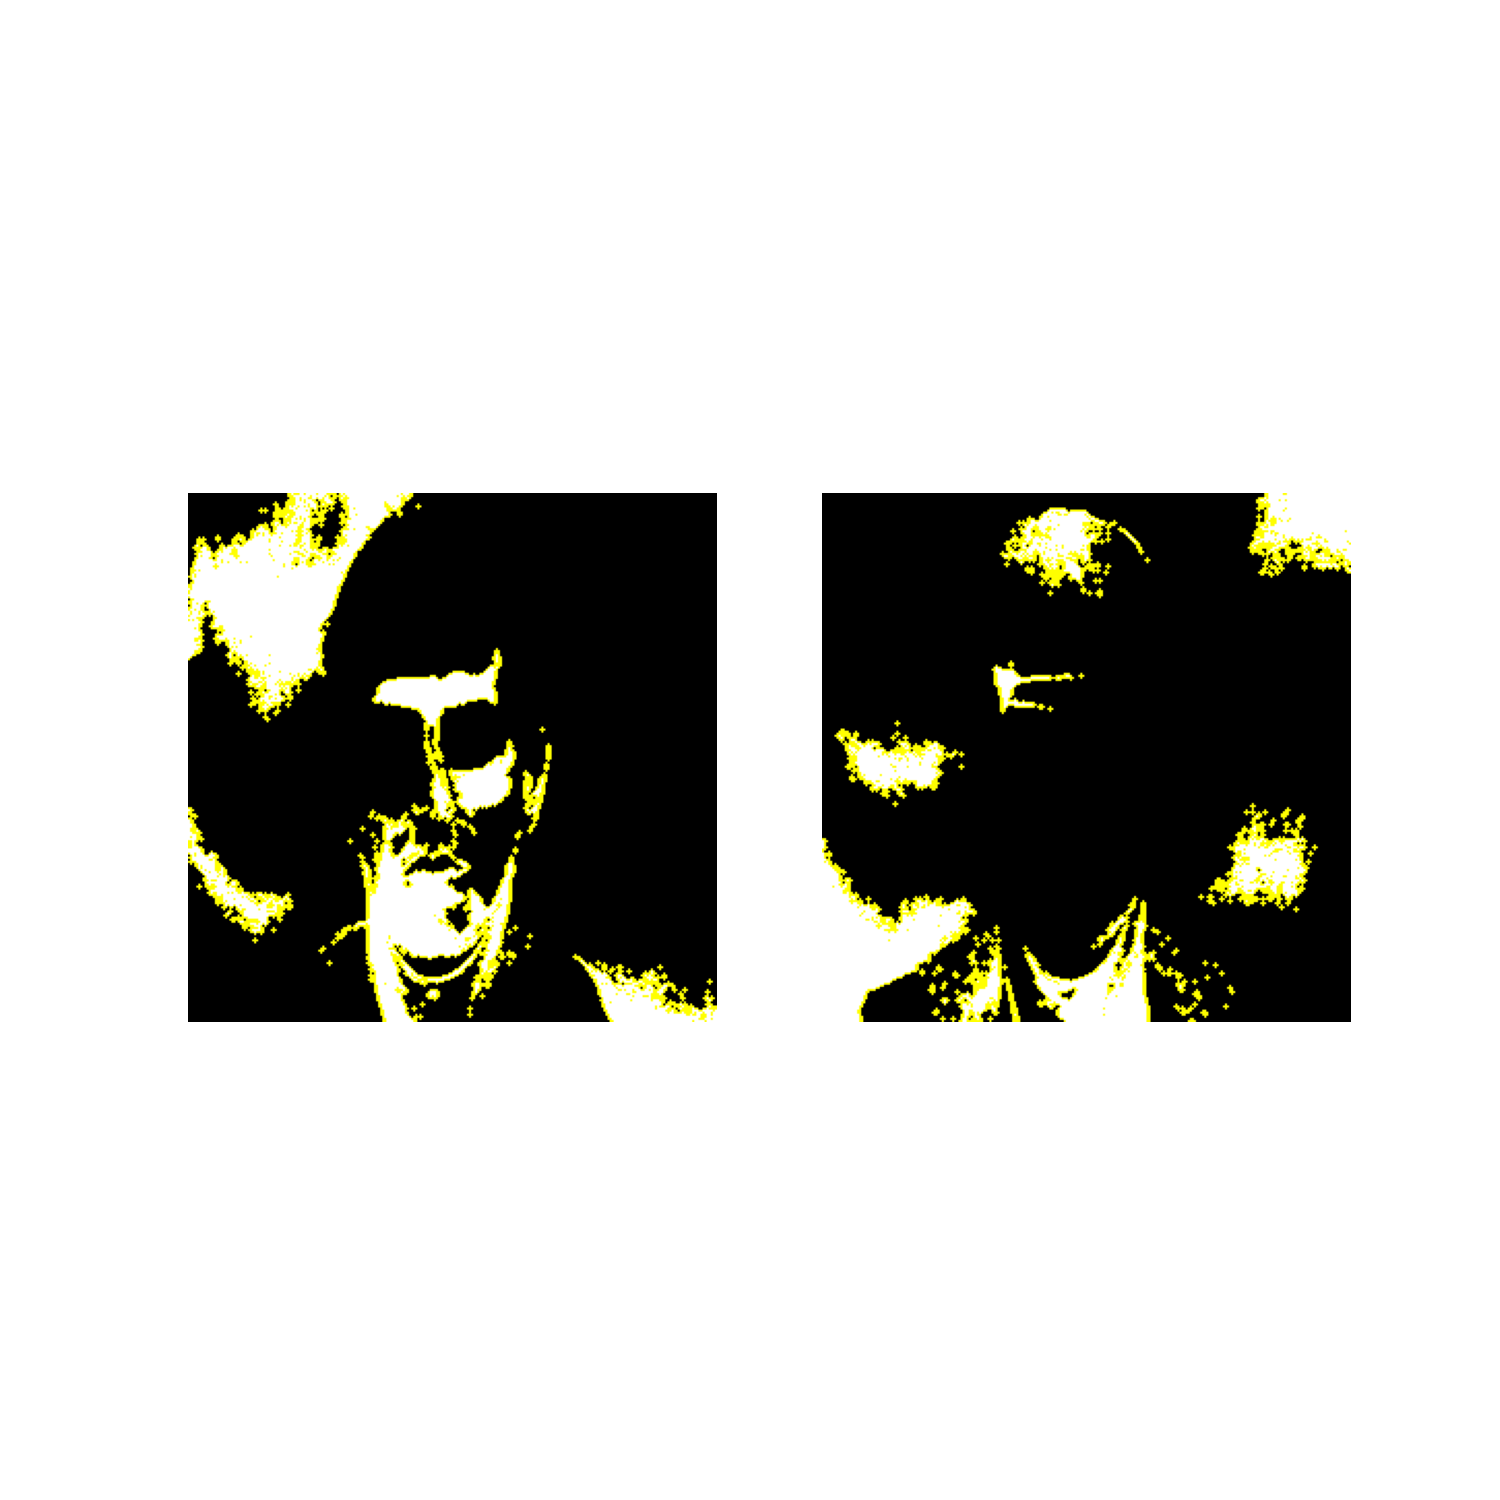
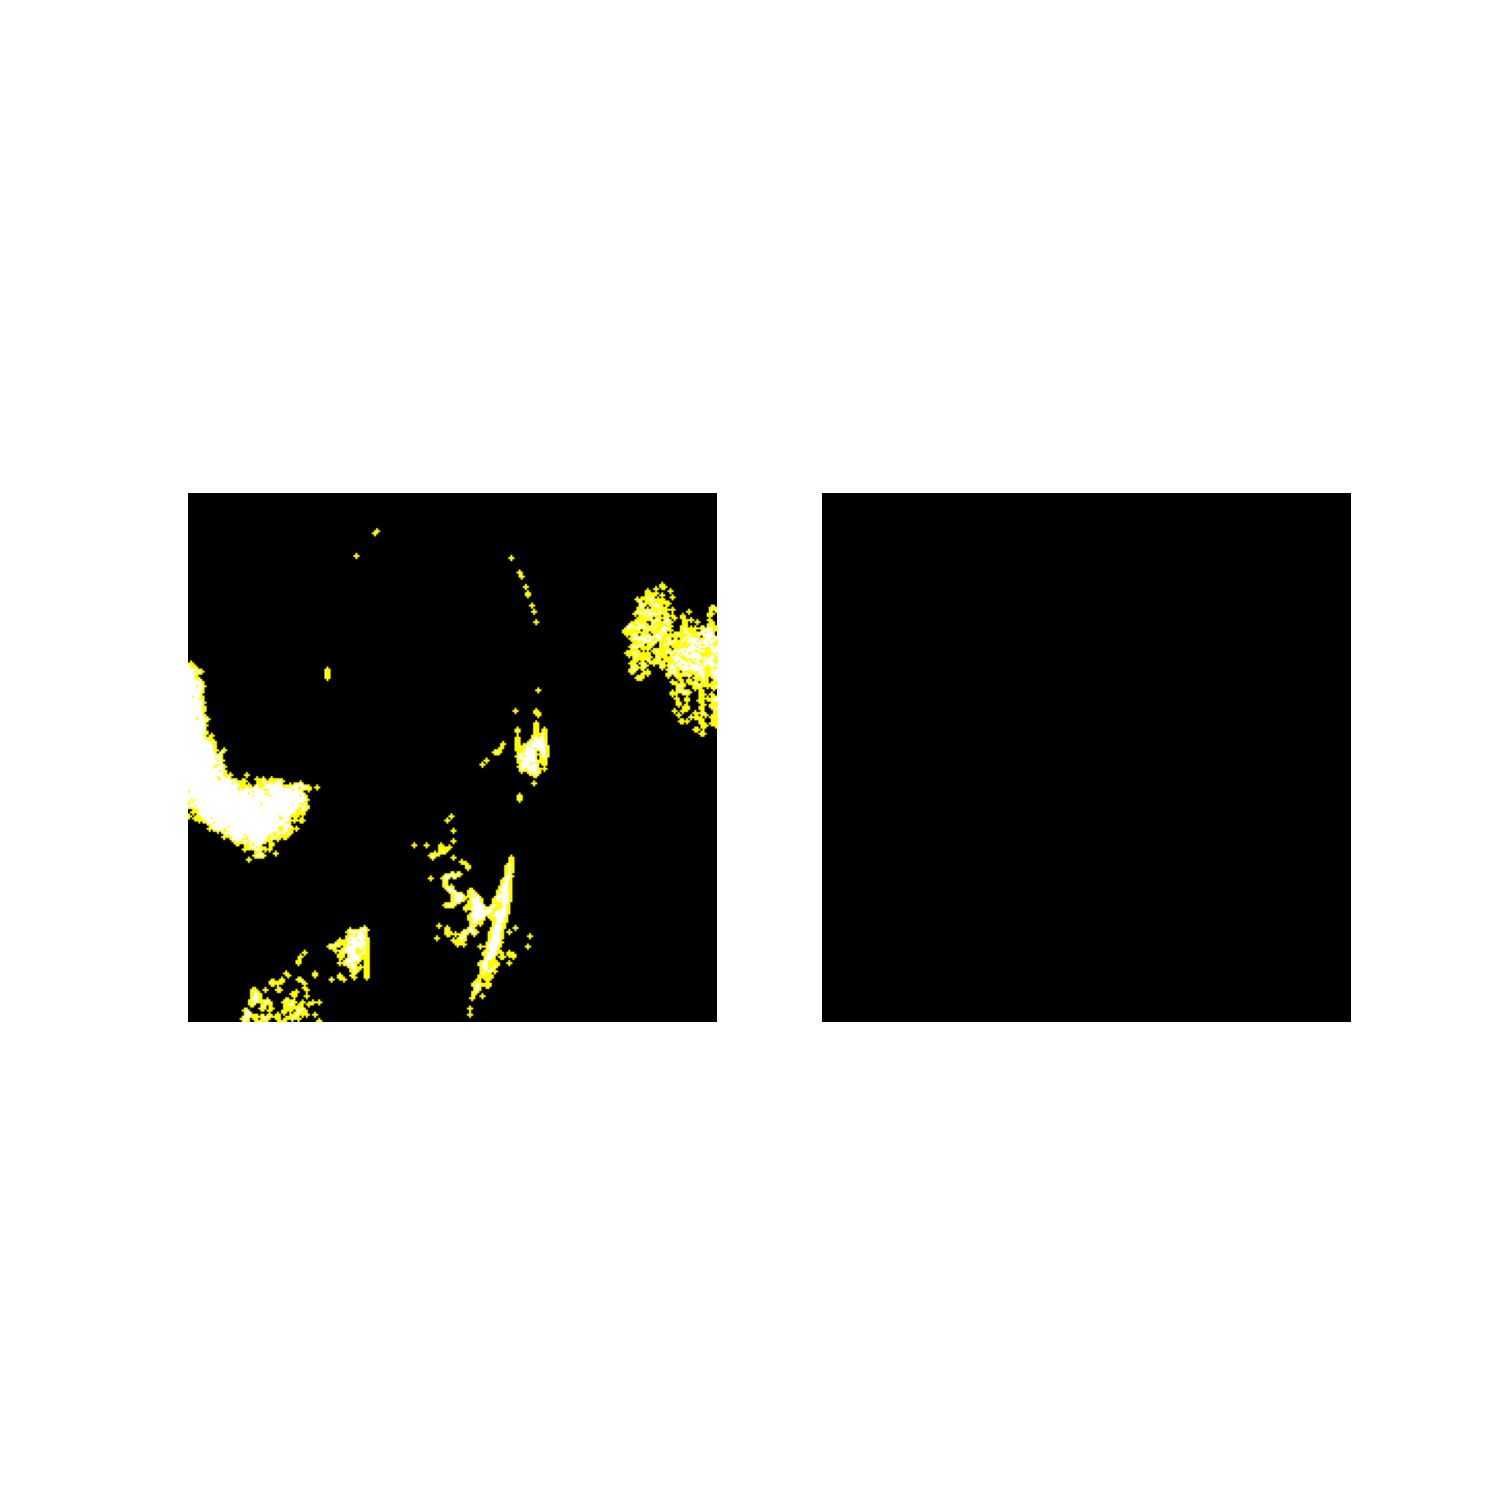
Integration

diff --git a/open-react-template/src/views/TryMe.js b/open-react-template/src/views/TryMe.js
@@ -1,74 +1,95 @@
 import React from 'react';
+import axios from 'axios';
 import { useState } from "react";
 import { Carousel } from "react-bootstrap";
-import Header from '../components/layout/Header';
+// import { useHistory } from "react-router-dom";
+
+
 
 function TryMeCarousel() {
     const [index, setIndex] = useState(0);
+    const URL = "http://172.20.10.2:5000/lime"
   
     const handleSelect = (selectedIndex, e) => {
       setIndex(selectedIndex);
     };
-
+    // let history = useHistory();
     const [name, setName] = useState("");
     const [selectedFile, setSelectedFile] = useState(null);
+    const [imageURL, setImageURL] = useState(null);
   
-    const submitForm = () => {
-      console.log(selectedFile);
+    const submitForm = (event) => {
+      event.preventDefault();
+      let data = new FormData();
+      data.append('file', selectedFile);
+      console.log(data);
+      const res = axios.post(URL, data, {
+        headers: {
+          'accept': 'application/json',
+          'Content-Type': `multipart/form-data;`,
+        }
+      }).then((resp) => {
+        console.log(resp);
+        setImageURL("http://172.20.10.2:5000/" + selectedFile.name.split(".")[0])
+      })
+      
     };
   
-    return (
-        <Carousel activeIndex={index} onSelect={handleSelect}>
-          <Carousel.Item>
-            <Carousel.Caption>
-              <h3>Step 1</h3>
-              <p>Choose an image / video depicting Micro Expression</p>
-            </Carousel.Caption>
-          </Carousel.Item>
-          <Carousel.Item>
-            <Carousel.Caption>
-              <h3>Step 2</h3>
-              <p>Upload the image in the form provided in the further steps</p>
-            </Carousel.Caption>
-          </Carousel.Item>
-          <Carousel.Item>
-            <Carousel.Caption>
-              <h3>Step 3</h3>
-              <p>Visualise the results and explaination provided for it using XAI and our OpenCV algorithm</p>
-            </Carousel.Caption>
-          </Carousel.Item>
-          <Carousel.Item>
-            <Carousel.Caption>
-              <h3>Upload The Photo / Video </h3>
-              <form>
-                <input
-                  type="text"
-                  value={name}
-                  onChange={(e) => setName(e.target.value)}
-                />
-
-                <input
-                  type="file"
-                  // value={selectedFile}
-                  onChange={(e) => setSelectedFile(e.target.files[0])}
-                />
-              </form>
-              <button onClick={submitForm}>Submit</button>
-            </Carousel.Caption>
-          </Carousel.Item>
-          <Carousel.Item>
-            <Carousel.Caption>
-              <h3>Results </h3>
-              <p>Results: </p>
-              <p>Explaination: </p>
-            </Carousel.Caption>
-          </Carousel.Item>
-        </Carousel>
-        
-      // </div>
-      
-      
-    );
-  }
+    // if(result) {
+    //   history.push(`result/${selectedFile.name.split('.')[0]}`);
+    //   console.log(result)
+    // }
+    // else {
+      return (
+        <Carousel interval={null} activeIndex={index} onSelect={handleSelect}>
+            <Carousel.Item>
+              <img src = {imageURL} />
+              <Carousel.Caption>
+                <h3>Step 1</h3>
+                <p>Choose an image / video depicting Micro Expression</p>
+              </Carousel.Caption>
+            </Carousel.Item>
+            <Carousel.Item>
+              <Carousel.Caption>
+                <h3>Step 2</h3>
+                <p>Upload the image in the form provided in the further steps</p>
+              </Carousel.Caption>
+            </Carousel.Item>
+            <Carousel.Item>
+              <Carousel.Caption>
+                <h3>Step 3</h3>
+                <p>Visualise the results and explaination provided for it using XAI and our OpenCV algorithm</p>
+              </Carousel.Caption>
+            </Carousel.Item>
+            <Carousel.Item>
+              <Carousel.Caption>
+                <h3>Upload The Photo / Video </h3>
+                <form>
+                  <input
+                    type="text"
+                    value={name}
+                    onChange={(e) => setName(e.target.value)}
+                  />
+  
+                  <input
+                    type="file"
+                    // value={selectedFile}
+                    onChange={(e) => setSelectedFile(e.target.files[0])}
+                  />
+                </form>
+                <button onClick={submitForm}>Submit</button>
+              </Carousel.Caption>
+            </Carousel.Item>
+            <Carousel.Item>
+              <Carousel.Caption>
+                <h3>Results </h3>
+                <p>Results: </p>
+                <p>Explaination: </p>
+              </Carousel.Caption>
+            </Carousel.Item>
+          </Carousel>
+      )
+    }
+  // }
 
 export default TryMeCarousel

diff --git a/open-react-template/src/App.js b/open-react-template/src/App.js
@@ -14,6 +14,7 @@ import Login from './views/Login';
 import Register from './views/Register';
 import TryMeCarousel from './views/TryMe';
 import TryMe from './components/sections/TryMe';
+import TryMeResult from './views/TryMeResult';
 // import FullPageCarousel from "./components/elements/FullPageCarousel";
 // import { TryMe } from './views/TryMe';
 
@@ -38,6 +39,7 @@ const App = () => {
           <AppRoute path="/login" component={Login} layout={LayoutDefault} />
           <AppRoute path="/register" component={Register} layout={LayoutDefault} />
           <AppRoute path="/try-me" component={TryMeCarousel}  layout={LayoutDefault} />
+          <AppRoute path="/result/:id" component={TryMeResult}  layout={LayoutDefault} />
         </Switch>
       )} />
   );

diff --git a/open-react-template/src/views/TryMeResult.js b/open-react-template/src/views/TryMeResult.js
@@ -1,0 +1,13 @@
+import React from 'react';
+import Cta from '../components/sections/Cta';
+// import Result from "../../public/images/LIME/007_617.png";
+// import { result } from 'lodash';
+const TryMeResult = () => {
+  return (
+    <div style={{"height":"70vh", "width":"70vh", display: "flex"}}>
+        <img src = "http://172.20.10.2:5000/" width={500} height = {500} />
+    </div>
+  );
+}
+
+export default TryMeResult;

diff --git a/app.py b/app.py
@@ -1,17 +1,28 @@
 from flask import Flask
 import os
-from flask import Flask, flash, request, redirect, render_template, send_from_directory
+from flask import Flask, flash, request, redirect, render_template, send_from_directory, Response
+from flask_cors import CORS
 from werkzeug.utils import secure_filename
 from XAI import *
+from flask_pymongo import PyMongo
 from OpenCV_Implementation import *
+import certifi
+from pymongo import MongoClient
+ca = certifi.where()
+
 
 app = Flask(__name__)
+CORS(app)
 app.secret_key = 'HocusPocus'
+
+# client = MongoClient(URI, tlsCAFile=ca)
+
 
 UPLOAD_FOLDER = os.getcwd() + '/Output'
 app.config['UPLOAD_FOLDER'] = UPLOAD_FOLDER
 
 ALLOWED_EXTENSIONS = {'txt', 'pdf', 'png', 'jpg', 'jpeg', 'gif', 'avi'}
+
 
 def allowed_file(filename):
     return '.' in filename and filename.rsplit('.', 1)[1].lower() in ALLOWED_EXTENSIONS
@@ -36,7 +47,7 @@ def allowed_file(filename):
 #             output = SHAP_Implementation(file, filename)
 #             # return render_template("index.html", img_data=output)
 #             return output
- 
+
 #     elif request.method == 'GET':
 #         return render_template('upload.html')
 
@@ -59,14 +70,17 @@ def lime():
             filename = secure_filename(file.filename)
             filename = os.path.splitext(filename)[0]
 
-            output = LIME_Implementation(file, filename) # Not returning anything for now
-            
+            # Not returning anything for now
+            output = LIME_Implementation(file, filename)
+
             full_filename = filename + '.png'
-            return render_template("index.html", img_data=full_filename)
+            file = 'Output/' + full_filename
+            return "200"
             # return output
- 
+
     elif request.method == 'GET':
         return render_template('upload.html')
+
 
 @app.route("/opencv", methods=['POST', 'GET'])
 def opencv():
@@ -87,12 +101,13 @@ def opencv():
             filename = secure_filename(file.filename)
             file.save(os.path.join(os.getcwd() + "\\Uploads\\", filename))
 
-            OpenCV_Wrapper(filename) # Not returning anything for now
-            
+            OpenCV_Wrapper(filename)  # Not returning anything for now
+
             return "200"
- 
+
     elif request.method == 'GET':
         return render_template('upload.html')
+
 
 @app.route('/Output/<path:filename>')
 def download_file(filename):
@@ -101,6 +116,39 @@ def download_file(filename):
 # docker build -t docker_image_name .
 # docker run --rm -it -p 7000:5000 docker_image_name
 
+
+# @app.route('/dbtest')
+# def dbtest():
+#     return '''
+#         <form method = "POST" action = "/dbtest/create" enctype = "multipart/form-data">
+#             <input type = "text" name = "filename" />
+#             <input type = "file" name = "input_image" />
+#             <input type = "submit">
+#         </form>
+#     '''
+
+
+# @app.route('/dbtest/create', methods=['POST'])
+# def dbcreate():
+#     print(request.files)
+#     if 'input_image' in request.files:
+#         input_image = request.files['input_image']
+#         print(input_image)
+#         db = client['XAI']
+#         # collection = db['test']
+#         db.save_file(input_image.filename, input_image)
+#         print("SAVEDDD")
+#         db.test.insert_one({'filename': request.form.get(
+#             'filename'), 'input_image_name': input_image.filename})
+#     return 'Done!'
+
+
+@app.route('/<file_name>', methods=['POST', 'GET'])
+def home(file_name):
+    file = 'Output/' + file_name + '.png'
+    return send_file(file, mimetype='image/png'), 200
+
+
 if __name__ == '__main__':
     # app.run(host='127.0.0.1', debug=True) # For Local
-    app.run(host='0.0.0.0', debug=True) # For Docker
+    app.run(host='0.0.0.0', debug=True)  # For Docker

diff --git a/XAI.py b/XAI.py
@@ -1,19 +1,22 @@
+from telnetlib import STATUS
 import tensorflow as tf
-from tensorflow.keras.applications.vgg16 import preprocess_input    
+from tensorflow.keras.applications.vgg16 import preprocess_input
 import shap
 import numpy as np
 from PIL import Image
 from skimage.segmentation import mark_boundaries
 from lime import lime_image
 import matplotlib.pyplot as plt
-from flask import send_file
+from flask import send_file, Response
 
 model = tf.keras.models.load_model('Models/VGG16')
+
 
 def f(x):
     tmp = x.copy()
     tmp = preprocess_input(tmp)
     return model(tmp)
+
 
 def SHAP_Implementation(file, filename):
     img = Image.open(file)
@@ -23,15 +26,18 @@ def SHAP_Implementation(file, filename):
     new_img = np.expand_dims(img, axis=0)
     new_img = new_img.astype('float32')
 
-    class_names = ['Angry', 'Fear', 'Happiness', 'Sadness', 'Surprise', 'Disgust', 'Contempt', 'Other']
+    class_names = ['Angry', 'Fear', 'Happiness', 'Sadness',
+                   'Surprise', 'Disgust', 'Contempt', 'Other']
 
     masker = shap.maskers.Image("inpaint_ns", new_img[0].shape)
     explainer = shap.Explainer(f, masker, output_names=class_names)
-    shap_values = explainer(new_img[0:], max_evals=50, batch_size=5, outputs=shap.Explanation.argsort.flip[:8])
+    shap_values = explainer(
+        new_img[0:], max_evals=50, batch_size=5, outputs=shap.Explanation.argsort.flip[:8])
 
     op = shap.image_plot(shap_values)
     print(type(op))
     return "123"
+
 
 def LIME_Implementation(file, filename):
     img = Image.open(file)
@@ -42,17 +48,21 @@ def LIME_Implementation(file, filename):
     new_img = new_img.astype('float32')
 
     explainer = lime_image.LimeImageExplainer()
-    explanation = explainer.explain_instance(new_img[0].astype('double'), model.predict, top_labels=3, hide_color=0, num_samples=1000)
+    explanation = explainer.explain_instance(new_img[0].astype(
+        'double'), model.predict, top_labels=3, hide_color=0, num_samples=10)
 
-    temp_1, mask_1 = explanation.get_image_and_mask(explanation.top_labels[0], positive_only=True, negative_only=False, num_features=10, hide_rest=True)
-    temp_2, mask_2 = explanation.get_image_and_mask(explanation.top_labels[0], positive_only=False, negative_only=True, num_features=10, hide_rest=True)
+    temp_1, mask_1 = explanation.get_image_and_mask(
+        explanation.top_labels[0], positive_only=True, negative_only=False, num_features=10, hide_rest=True)
+    temp_2, mask_2 = explanation.get_image_and_mask(
+        explanation.top_labels[0], positive_only=False, negative_only=True, num_features=10, hide_rest=True)
 
-    fig, (ax1, ax2) = plt.subplots(1, 2, figsize=(15,15))
+    fig, (ax1, ax2) = plt.subplots(1, 2, figsize=(15, 15))
     ax1.imshow(mark_boundaries(temp_1, mask_1))
     ax2.imshow(mark_boundaries(temp_2, mask_2))
     ax1.axis('off')
     ax2.axis('off')
-    
+
+    # fig.savefig(f'open-react-template/public/images/LIME/{filename}.png')
     fig.savefig(f'Output/{filename}.png')
 
     # return "200"
